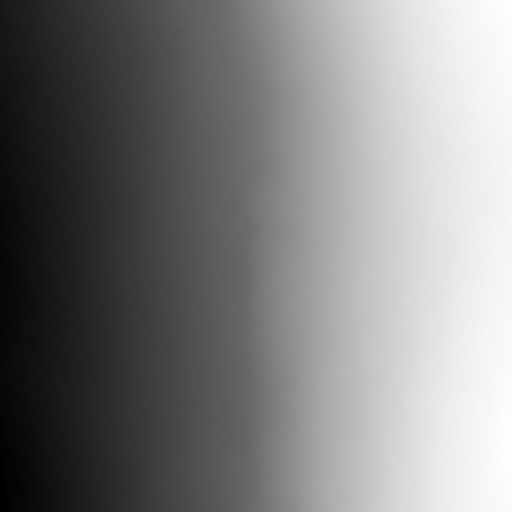
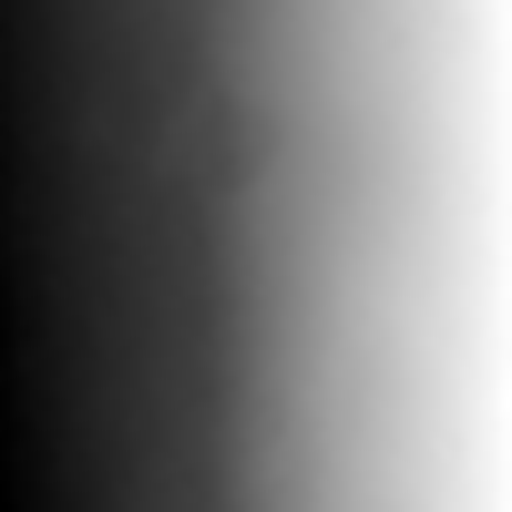
Fix terrain appearance: 50m crop, z_scale 0.12->0.40
Two root causes for flat/identical terrain appearance:
- 200m crop was too large: downsampling erased local terrain character.
  Reduced to 50m so robot-scale features (rocks, gullies) are preserved.
- z_scale=0.12m was visually imperceptible (3cm std). Raised to 0.40m
  (sim std 10-15cm) which is realistic rough outdoor terrain for Go2.

Per-terrain normalisation kept so each PNG uses full 0-255 range;
distinctness now comes from spatial distribution (img_std 65-94)
rather than identical statistics.

Changed region(s): [[0.5312, 0.0, 0.875, 0.3438]]

diff --git a/examples/run_terrain_experiment.py b/examples/run_terrain_experiment.py
@@ -37,10 +37,17 @@ def make_scene_xml(terrain_png: Path) -> Path:
     """
     src = SCENE_TMPL.read_text()
     rel = os.path.relpath(terrain_png, SCENE_DIR / "assets")
+    # swap PNG path
     patched = re.sub(
         r'(<hfield\b[^>]*\bfile=")[^"]*(")',
         lambda m: m.group(1) + rel + m.group(2),
         src,
+    )
+    # ensure z_scale=0.40 regardless of what the template says
+    patched = re.sub(
+        r'(size="\d+\.?\d* \d+\.?\d*) \d+\.?\d* (\d+\.?\d*")',
+        lambda m: m.group(1) + ' 0.40 ' + m.group(2),
+        patched,
     )
     out = SCENE_DIR / f"_tmp_scene_{terrain_png.stem}.xml"
     out.write_text(patched)
